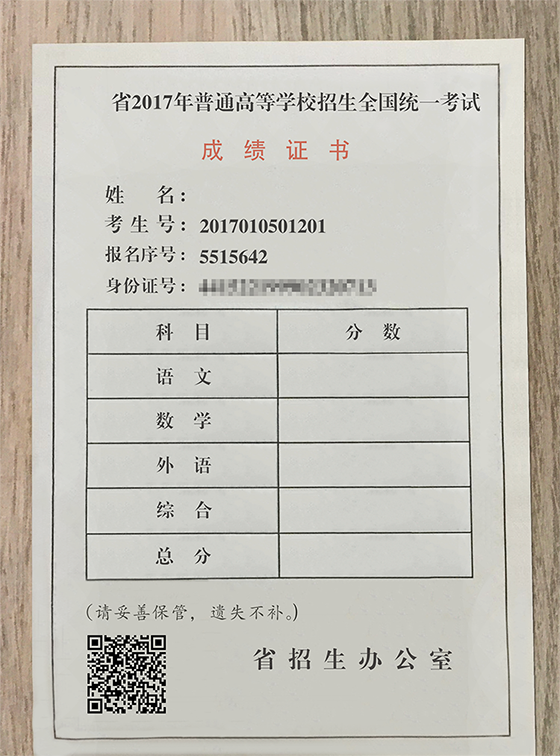
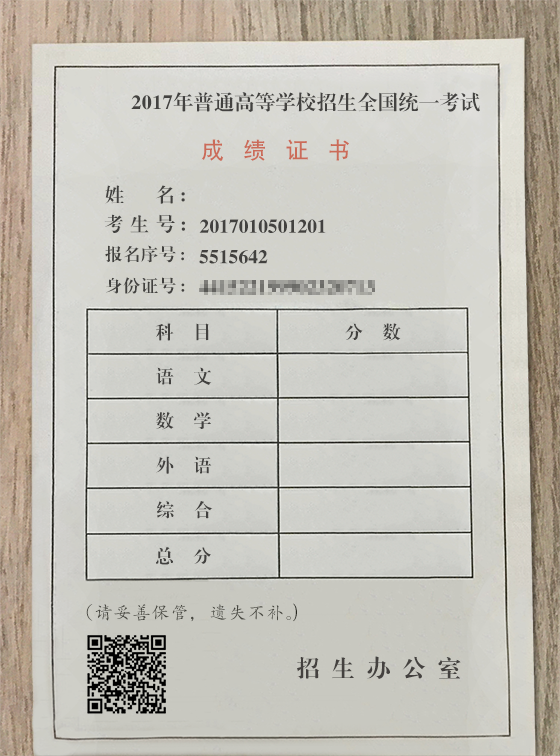
继续调整，并且更换图片

diff --git a/picture.html b/picture.html
@@ -180,7 +180,7 @@
 
                 // 填充综合
                 mainCtx.font = "small-caps 30px STXinwei";
-                mainCtx.fillText(zonghe + "综合",340,470);
+                mainCtx.fillText(zonghe + "综合",340,476);
 
                 // 填充英语
                 mainCtx.font = "small-caps 30px STXinwei";
@@ -188,11 +188,11 @@
 
                 // 填充总成绩
                 mainCtx.font = "small-caps 30px STXinwei";
-                mainCtx.fillText(zongfen + "总成绩",340,570);
+                mainCtx.fillText(zongfen + "总成绩",340,566);
 
                 // 填充省份
                 mainCtx.font = "small-caps 9px";
-                mainCtx.fillText(province,27,122);
+                mainCtx.fillText(province,30,118);
 
                 // 填充排位总分
                 // mainCtx.font = "small-caps 32px STXinwei";
